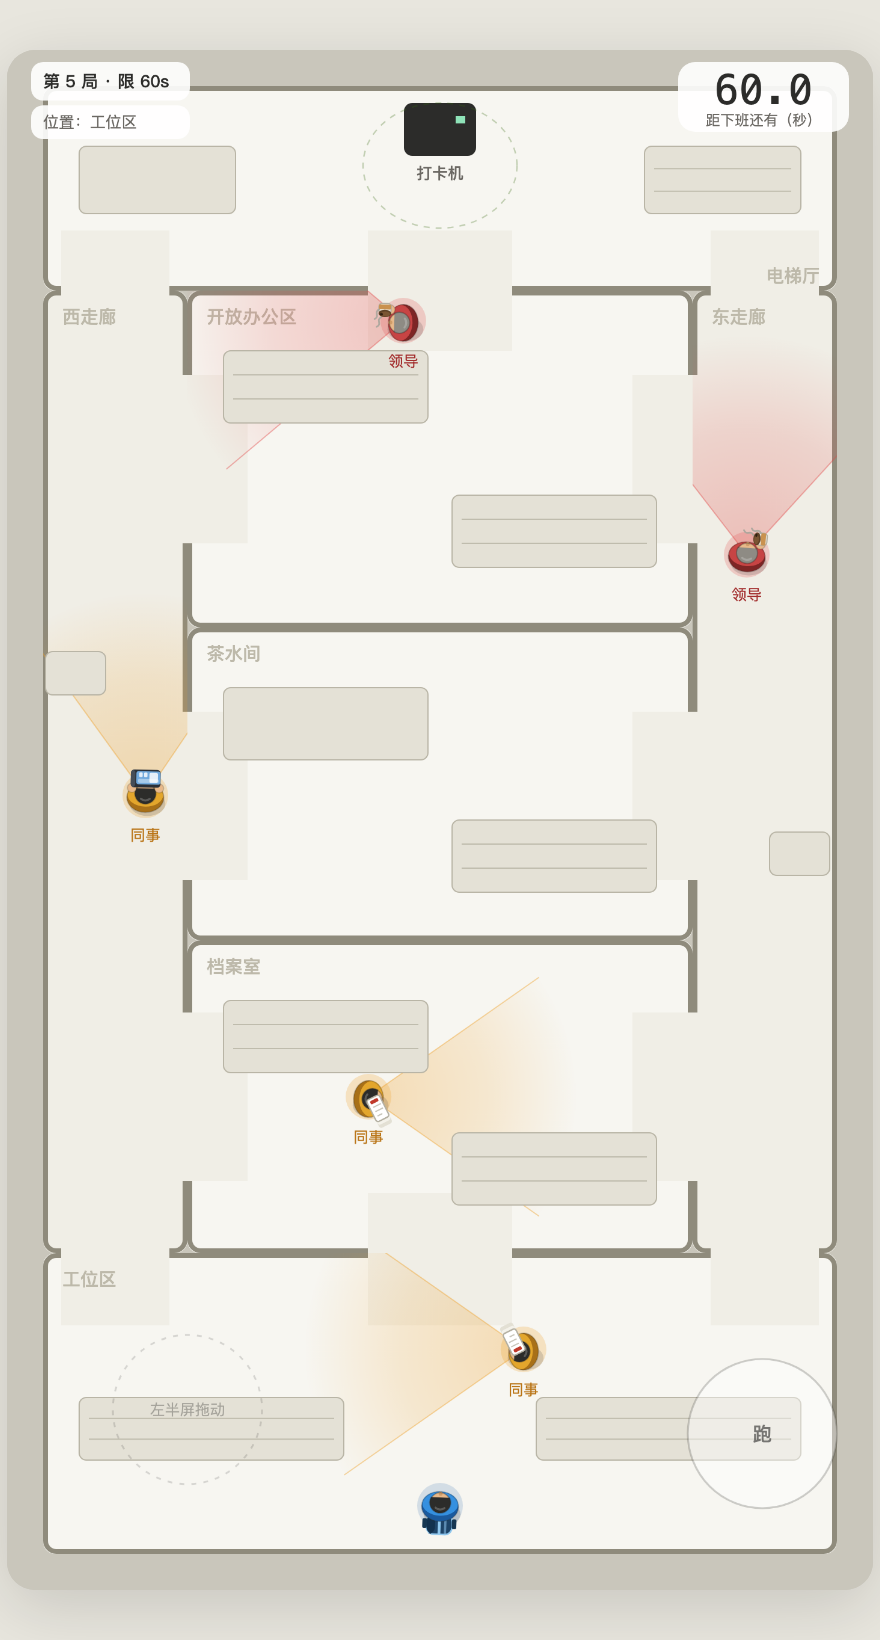
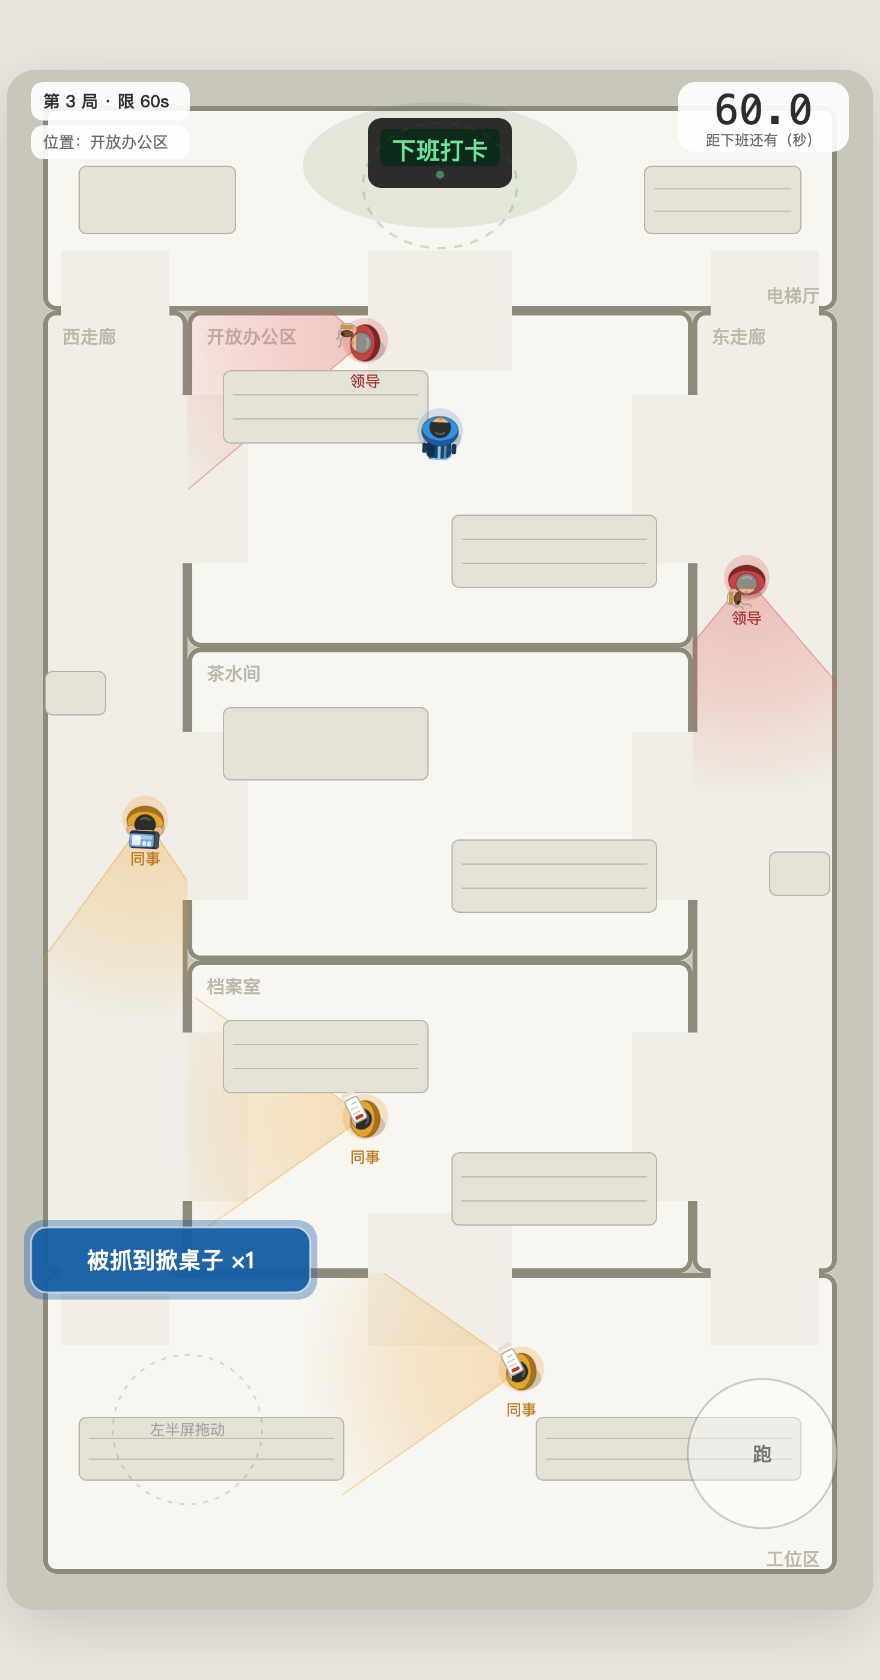
feat: 打卡机写上下班打卡 / 掀桌子计数挪到左下角 / 砍掉前两关
三处按试玩反馈调整：

1. 打卡机屏幕直接写「下班打卡」
   机身从 60x44 放到 120x58，中间挖一块绿屏写四个字，
   外加呼吸光晕 + 慢速流动的虚线到达环。
   原来只在下面写了个「打卡机」小字，玩家要猜到这是终点。

2. 「被抓到掀桌子 ×1」从右上角挪到左下角
   原位置在计时器下面，字 13px，基本看不见。
   现在 232x54、19px 白字、蓝色底 + 呼吸描边。
   顺带把「工位区」的房间名挪到右下角，不然被计数条压住。

3. 砍掉前两关
   前两局是「保送局」（1~2 个 NPC、视野压到 60%），实测通关率 94%。
   玩起来像教程不像游戏。现在第 1 局直接是「西走廊 + 漏斗口」。

   这里推翻了我自己之前的判断：我很坚持「首局保送」，
   但 94% 的通关率不是宽容，是没有挑战。
   真正该被保送的是「第一次失误」—— 而这件事已经由掀桌子承担了。

实测（48 局，机器人被抓就掀桌子）：难度阶梯 69% → 63% → 56%，单调。

diff --git a/index.html b/index.html
@@ -254,7 +254,7 @@ const COVERS = [
 ];
 
 // 打卡机
-const MACHINE = { x:330, y:44, w:60, h:44 };
+const MACHINE = { x:300, y:40, w:120, h:58 };   // 放大，好把「下班打卡」四个字写上去
 const WIN_ZONE = { x:360, y: 96, rx:64, ry:52 };
 
 // 出生点：工位区最里面
@@ -300,11 +300,9 @@ const NPC_DEFS = {
 
 // 难度阶梯：第 1 局保送，逐局加码（对应设计稿里的"首局保送"）
 const ROUND_NPCS = [
-  ['A'],                     // 第 1 局 · 只有工位区一个人
-  ['A','D'],                 // 第 2 局 · 加漏斗口的领导
-  ['A','B','D'],             // 第 3 局 · 加西走廊
-  ['A','B','C','D'],         // 第 4 局 · 加东走廊
-  ['A','B','C','D','E']      // 第 5 局起 · 全员到齐
+  ['A','B','D'],             // 第 1 局 · 工位区 + 西走廊 + 漏斗口
+  ['A','B','C','D'],         // 第 2 局 · 加东走廊
+  ['A','B','C','D','E']      // 第 3 局起 · 全员到齐
 ];
 
 // 按局数缩放 NPC 感知能力。
@@ -312,11 +310,9 @@ const ROUND_NPCS = [
 // 第 1 局把视野压到 72% —— 同事·老王视野 190→137，玩家站在工位区中间就不会被看见了。
 // rationale：首局的目的是「教会玩家看视野锥」，不是「考住他」。
 const ROUND_TUNING = [
-  { vision:0.60, speed:0.72, alert:2.2 },   // 第 1 局 · 保送
-  { vision:0.85, speed:0.90, alert:1.6 },   // 第 2 局 · 加入领导
-  { vision:0.94, speed:0.96, alert:1.2 },   // 第 3 局 · 加入西走廊
-  { vision:0.90, speed:0.94, alert:1.1 },   // 第 4 局 · 两条走廊同时有人，软一档
-  { vision:0.96, speed:0.98, alert:1.0 }    // 第 5 局起 · 全员
+  { vision:0.94, speed:0.96, alert:1.2 },   // 第 1 局 · 西走廊 + 漏斗口
+  { vision:0.90, speed:0.94, alert:1.1 },   // 第 2 局 · 两条走廊同时有人，软一档
+  { vision:0.96, speed:0.98, alert:1.0 }    // 第 3 局起 · 全员
 ];
 
 /* ---------- 台词（被打断时的话） ---------- */
@@ -1125,8 +1121,8 @@ function draw(){
   ctx.fillStyle = '#BDB9AA';
   ctx.textAlign = 'left'; ctx.textBaseline = 'top';
   for(const r of ROOMS){
-    if(r.id === 'lobby'){
-      // 电梯厅顶部被 HUD 盖住，标签改画到右下角，避开西走廊的标签
+    // lobby 顶部被计时器盖住、desk 左上角被掀桌子计数条盖住，这两个挪到右下角
+    if(r.id === 'lobby' || r.id === 'desk'){
       const prevAlign = ctx.textAlign;
       ctx.textAlign = 'right';
       ctx.fillText(r.name, r.x + r.w - 14, r.y + r.h - 20);
@@ -1194,20 +1190,35 @@ function draw(){
     }
   }
 
-  /* 打卡机 */
+  /* 打卡机（终点）：屏幕上直接写「下班打卡」，玩家一眼就知道往哪走 */
+  const mgx = MACHINE.x + MACHINE.w/2, mgy = MACHINE.y + MACHINE.h/2;
+  const glow = 0.5 + Math.sin(performance.now()/560)*0.5;
+  // 呼吸光晕
+  ctx.fillStyle = 'rgba(59,109,17,' + (0.10 + 0.14*glow).toFixed(3) + ')';
+  ctx.beginPath();
+  ctx.ellipse(mgx, mgy + 10, MACHINE.w*0.95, MACHINE.h*0.9, 0, 0, Math.PI*2);
+  ctx.fill();
+  // 机身
   ctx.fillStyle = C.machine;
-  roundRect(MACHINE.x, MACHINE.y, MACHINE.w, MACHINE.h, 7); ctx.fill();
-  ctx.fillStyle = '#8FE3B8';
-  ctx.fillRect(MACHINE.x+43, MACHINE.y+11, 8, 6);
-  ctx.font = '500 13px -apple-system,"PingFang SC",sans-serif';
-  ctx.fillStyle = C.muted; ctx.textAlign = 'center'; ctx.textBaseline = 'top';
-  ctx.fillText('打卡机', MACHINE.x + MACHINE.w/2, MACHINE.y + MACHINE.h + 8);
+  roundRect(MACHINE.x, MACHINE.y, MACHINE.w, MACHINE.h, 11); ctx.fill();
+  // 屏幕
+  ctx.fillStyle = '#0D2A1B';
+  roundRect(MACHINE.x+10, MACHINE.y+9, MACHINE.w-20, MACHINE.h-27, 5); ctx.fill();
+  // 屏幕上的字
+  ctx.fillStyle = '#6FE39C';
+  ctx.font = '500 20px -apple-system,"PingFang SC",sans-serif';
+  ctx.textAlign = 'center'; ctx.textBaseline = 'middle';
+  ctx.fillText('下班打卡', mgx, MACHINE.y + 27);
+  // 指示灯
+  ctx.fillStyle = 'rgba(111,227,156,' + (0.45 + 0.55*glow).toFixed(2) + ')';
+  ctx.beginPath(); ctx.arc(mgx, MACHINE.y + MACHINE.h - 11, 3.4, 0, Math.PI*2); ctx.fill();
 
-  // 到达提示环
-  ctx.strokeStyle = 'rgba(59,109,17,.28)';
-  ctx.lineWidth = 1.2; ctx.setLineDash([5,5]);
+  // 到达范围提示环（虚线呼吸）
+  ctx.strokeStyle = 'rgba(59,109,17,' + (0.20 + 0.22*glow).toFixed(2) + ')';
+  ctx.lineWidth = 2; ctx.setLineDash([7,7]);
+  ctx.lineDashOffset = -performance.now()/60;
   ctx.beginPath(); ctx.ellipse(WIN_ZONE.x, WIN_ZONE.y, WIN_ZONE.rx, WIN_ZONE.ry, 0, 0, Math.PI*2); ctx.stroke();
-  ctx.setLineDash([]);
+  ctx.setLineDash([]); ctx.lineDashOffset = 0;
 
   /* NPC */
   for(const n of npcs){
@@ -1306,13 +1317,24 @@ function draw(){
   ctx.fillStyle = C.muted;
   ctx.fillText('距下班还有（秒）', W-91, 58);
 
-  // 掀桌子剩余次数
+  // 掀桌子剩余次数：本来在右上角太小看不见，挪到左下角、放大、加呼吸边框
   const hasCounter = counter > 0;
-  ctx.fillStyle = hasCounter ? 'rgba(24,95,165,.92)' : 'rgba(255,255,255,.85)';
-  roundRect(W-162, 74, 142, 30, 10); ctx.fill();
-  ctx.font = '400 13px -apple-system,"PingFang SC",sans-serif';
+  const cw = 232, chh = 54, cx0 = 20, cy0 = 962;
+  if(hasCounter){
+    const cp = 0.5 + Math.sin(performance.now()/430)*0.5;
+    ctx.fillStyle = 'rgba(24,95,165,' + (0.18 + 0.18*cp).toFixed(2) + ')';
+    roundRect(cx0-6, cy0-6, cw+12, chh+12, 16); ctx.fill();
+  }
+  ctx.fillStyle = hasCounter ? 'rgba(24,95,165,.95)' : 'rgba(255,255,255,.80)';
+  roundRect(cx0, cy0, cw, chh, 13); ctx.fill();
+  if(hasCounter){
+    ctx.strokeStyle = 'rgba(255,255,255,.60)'; ctx.lineWidth = 1.6;
+    roundRect(cx0, cy0, cw, chh, 13); ctx.stroke();
+  }
+  ctx.textAlign = 'center'; ctx.textBaseline = 'middle';
+  ctx.font = '500 19px -apple-system,"PingFang SC",sans-serif';
   ctx.fillStyle = hasCounter ? '#FFFFFF' : C.muted;
-  ctx.fillText(hasCounter ? '掀桌子 ×' + counter : '掀桌子 已用', W-91, 89);
+  ctx.fillText(hasCounter ? '被抓到掀桌子 ×' + counter : '被抓到掀桌子 已用', cx0 + cw/2, cy0 + chh/2);
 
   // 局数
   ctx.textAlign = 'left';

diff --git a/README.md b/README.md
@@ -119,23 +119,21 @@
 
 走西走廊还是东走廊，是你每局要做的第一个决定；**而且两条路各有人守。**
 
-## 第 1 局是保送的（这是私心）
+## 难度阶梯
 
-第 1 局只放一个同事，而且把他的视野压到 72%。第 2 局加领导，第 3 局才加走廊，第 4 局全员到齐。
+**原本前两局是「保送局」**（只放一个同事、视野压到 60%），实测通关率 94%。后来砍掉了 —— 玩起来像教程，不像游戏。
 
-原因很直白：**我们不想让你在第一次打开的时候就讨厌这个游戏。** 第 1 局的任务是教会你看视野锥，不是考住你。
+现在第 1 局就是「西走廊 + 漏斗口」，三关递进：
 
 | 局数 | 谁会来 | 视野系数 | 通关率（会用掀桌子） |
 |---|---|---|---|
-| 第 1 局 | 同事 · 老王 | 60% | **94%** |
-| 第 2 局 | + 领导 · 陈总（漏斗口） | 85% | **94%** |
-| 第 3 局 | + 同事 · 小李（西走廊） | 94% | **63%** |
-| 第 4 局 | + 领导 · 张总（东走廊） | 90% | **38%** |
-| 第 5 局起 | + 同事 · 老周（档案室） | 96% | **50%** |
+| 第 1 局 | 老王（工位区）+ 小李（西走廊）+ 陈总（漏斗口） | 94% | **69%** |
+| 第 2 局 | + 张总（东走廊） | 90% | **63%** |
+| 第 3 局起 | + 老周（档案室） | 96% | **56%** |
 
-前两局是保送，第 3 局开始真正咬人，第 4 局两条走廊同时有人守 —— **那才是这张图真正的墙**。80 局里 27 局动过手，说明这个按钮不是摆设。
+这里有个值得记下来的取舍：我一开始很坚持「首局保送」，理由是别让玩家第一次打开就讨厌这个游戏。但实测 94% 的通关率对玩家**没有价值** —— 它不是「宽容」，是「没有挑战」。
 
----
+真正需要被保送的不是「第一局」，而是**「第一次失误」**。这件事现在由「掀桌子」承担了：同样是不让一次手滑就结束，但它发生在紧张的瞬间，而不是把整局变简单。
 
 ## 实测数据
 
@@ -144,8 +142,8 @@
 - **地图翻新后最短路径 1452 px（纯走 16.5 秒）**，旧图是 1220 px（13.9 秒）。可行走面积从 466k 涨到 563k px²。谨慎型玩家实际要 19~26 秒 —— 但 60 秒版通关后**仍然剩 33~41 秒**。开始页因此保留 `60 秒版` 和 `32 秒版` 两个按钮。
 - **各闸门「存在安全站位」的时间占比仍在 90% 以上。** 贴着墙走几乎永远安全，因为巡逻是静态的 —— **学会一次，就能一直用**。
 - **全场平均等待只有 0.36 秒。** 把地图从 4 间扩到 7 间之后，这个数字只从 0.28 涨到 0.36，几乎没动。这说明了「加房间」解决不了这个问题：玩家从来不停下等时机，只会换条路绕过去。
-- **加了「掀桌子」之后，第 4/5 局的通关率从 13% 提到 38~50%。** 这条机制的定位不是「送一条命」，而是「把一次性失误的代价从『重开』降级成『扣 8 秒』」——对传播型小游戏来说，前者会让人关掉页面，后者会让人再来一把。
-- 80 局实测的难度阶梯：**94% → 94% → 63% → 38% → 50%**（每局 16 次，机器人会看视野锥、会绕路、被抓就掀桌子）。
+- **加了「掀桌子」之后，最难那两局的通关率从 13% 提到 38~50%。** 这条机制的定位不是「送一条命」，而是「把一次性失误的代价从『重开』降级成『扣 8 秒』」——对传播型小游戏来说，前者会让人关掉页面，后者会让人再来一把。
+- 48 局实测的难度阶梯：**69% → 63% → 56%**（每局 16 次，机器人会看视野锥、会绕路、被抓就掀桌子）。
 
 ## 还没解决的
 
